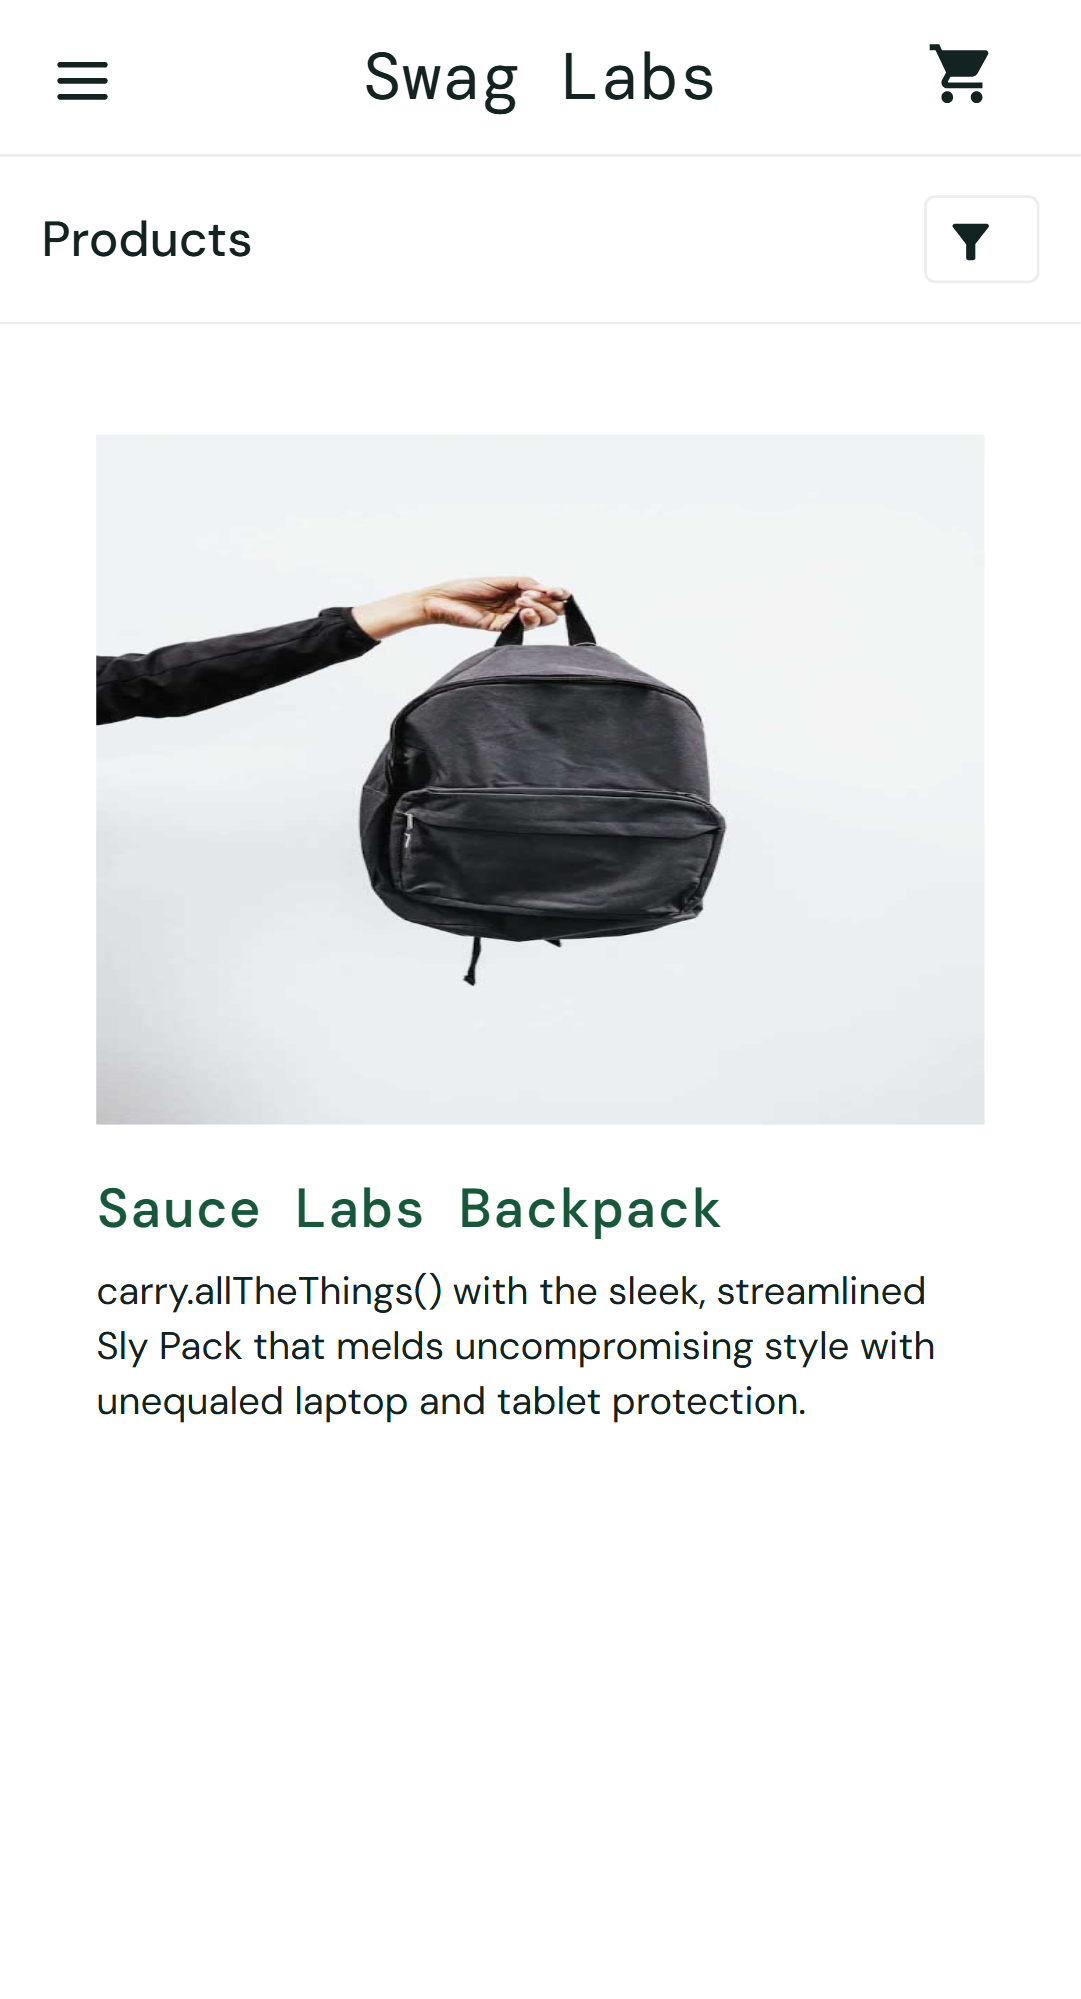
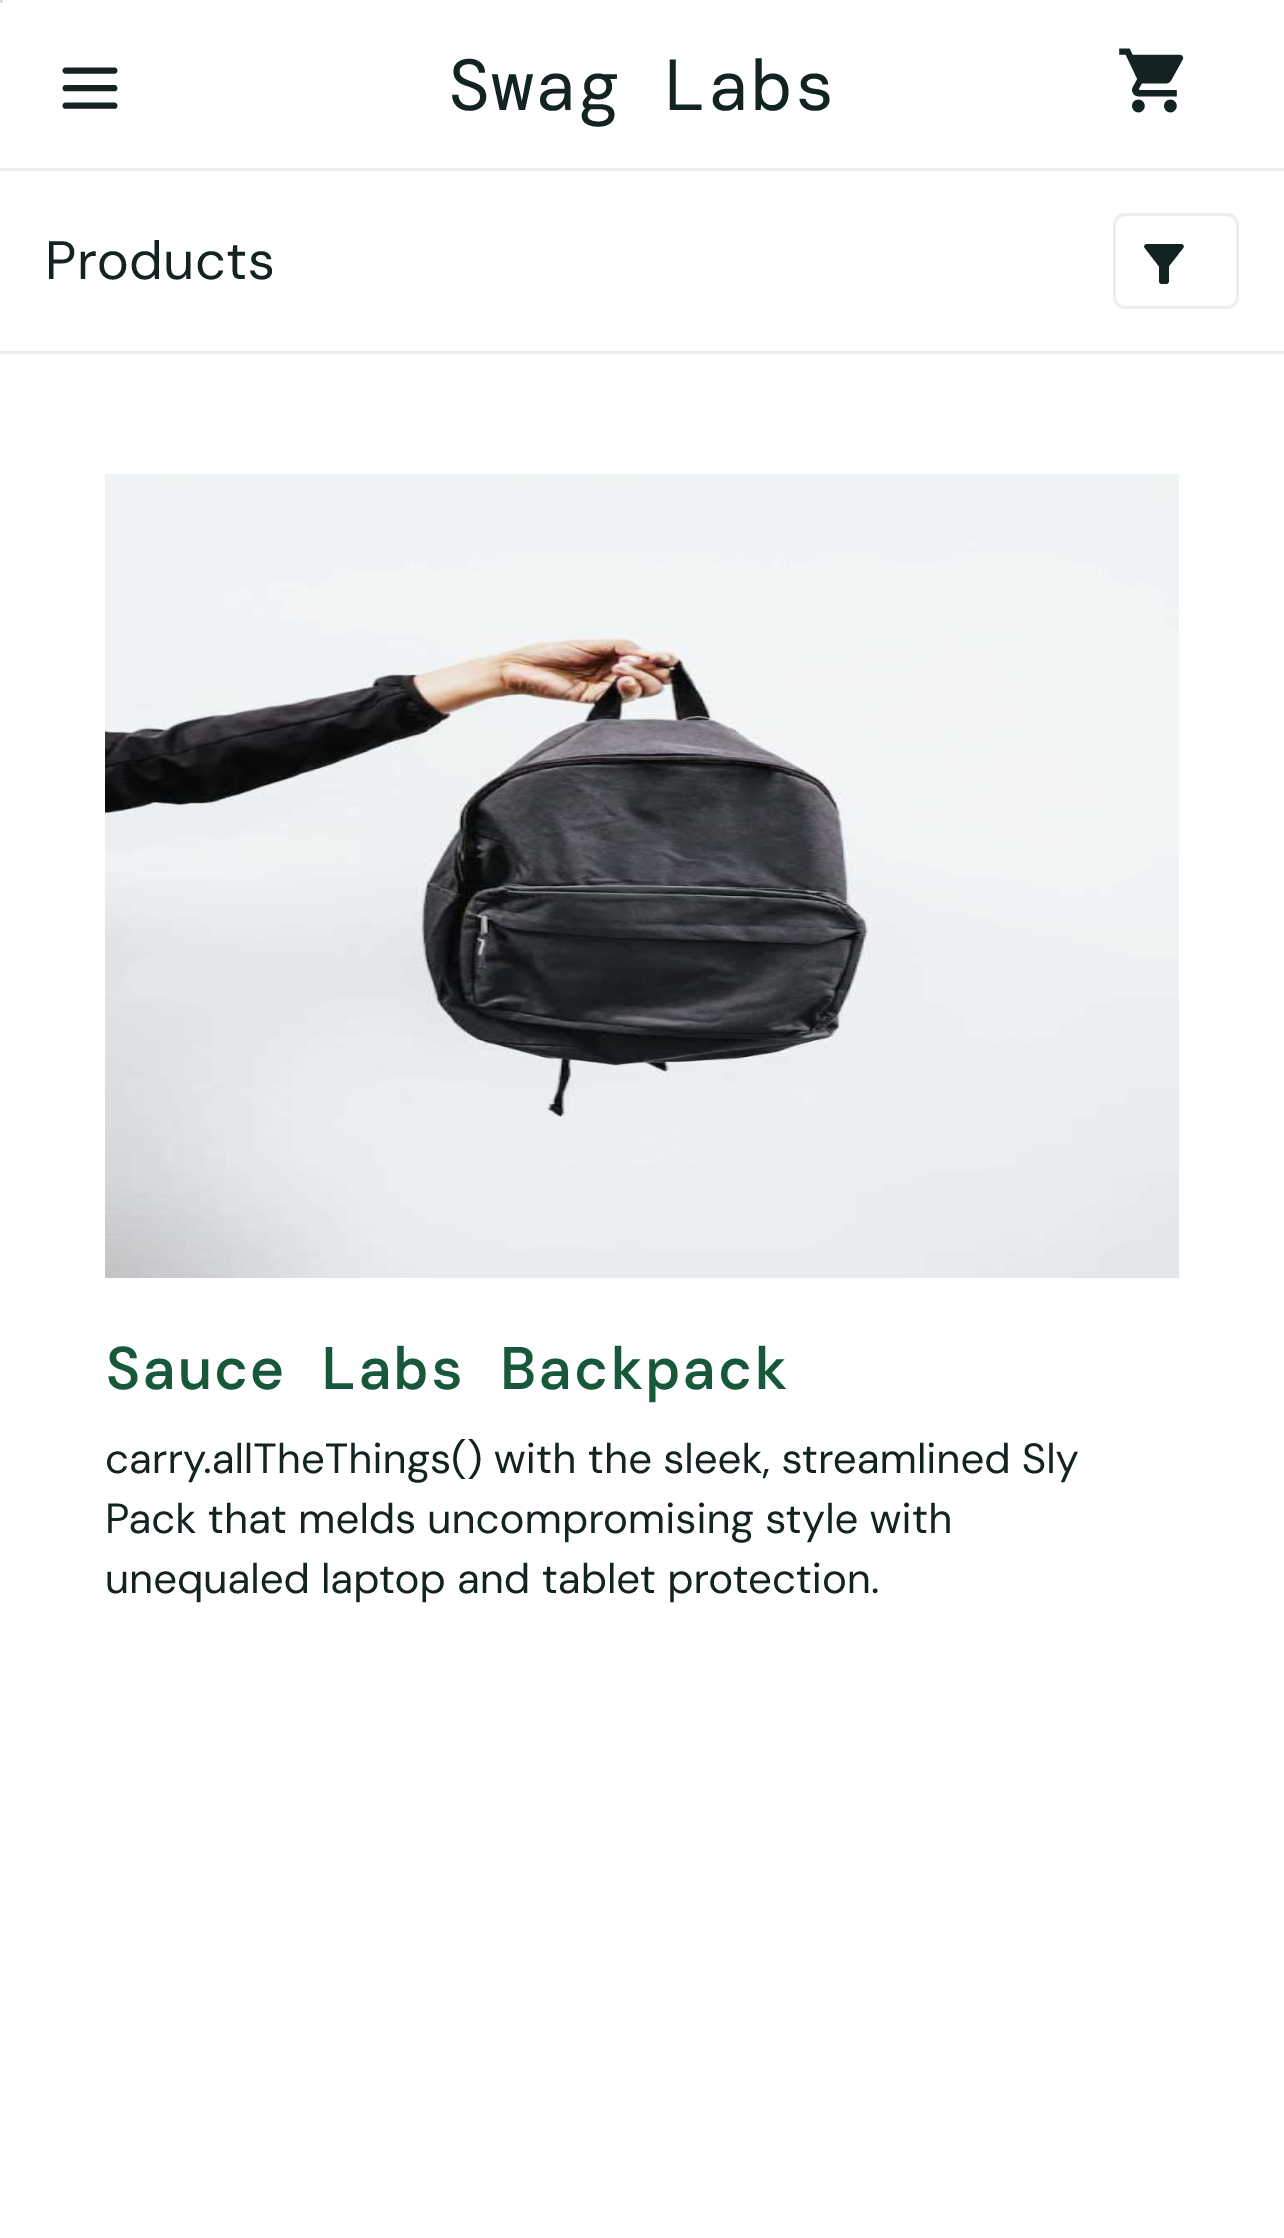
Added Iphone 13 test support

diff --git a/playwright.config.ts b/playwright.config.ts
@@ -63,10 +63,10 @@ export default defineConfig({
       name: 'Mobile Chrome',
       use: { ...devices['Pixel 5'] },
     },
-    // {
-    //   name: 'Mobile Safari',
-    //   use: { ...devices['iPhone 12'] },
-    // },
+    {
+      name: 'iPhone',
+      use: { ...devices['iPhone 13 Pro Max'] },
+    },
 
     /* Test against branded browsers. */
     // {

diff --git a/allure-results/6144d20f-ba00-45cb-9098-a4ff45805298-attachment.md b/allure-results/6144d20f-ba00-45cb-9098-a4ff45805298-attachment.md
@@ -1,0 +1,88 @@
+# Instructions
+
+- Following Playwright test failed.
+- Explain why, be concise, respect Playwright best practices.
+- Provide a snippet of code with the fix, if possible.
+
+# Test info
+
+- Name: visual.spec.ts >> Visual testing >> Visual test - login page
+- Location: tests\visual.spec.ts:10:9
+
+# Error details
+
+```
+Error: expect(page).toHaveScreenshot(expected) failed
+
+  Expected an image 1280px by 720px, received 428px by 746px. 267854 pixels (ratio 0.29 of all image pixels) are different.
+
+Call log:
+  - Expect "toHaveScreenshot" with timeout 5000ms
+    - verifying given screenshot expectation
+  - taking page screenshot
+    - disabled all CSS animations
+  - waiting for fonts to load...
+  - fonts loaded
+  - Expected an image 1280px by 720px, received 428px by 746px. 267854 pixels (ratio 0.29 of all image pixels) are different.
+  - waiting 100ms before taking screenshot
+  - taking page screenshot
+    - disabled all CSS animations
+  - waiting for fonts to load...
+  - fonts loaded
+  - captured a stable screenshot
+  - Expected an image 1280px by 720px, received 428px by 746px. 267854 pixels (ratio 0.29 of all image pixels) are different.
+
+```
+
+# Page snapshot
+
+```yaml
+- generic [ref=e3]:
+  - generic [ref=e4]: Swag Labs
+  - generic [ref=e5]:
+    - generic [ref=e9]:
+      - textbox "Username" [ref=e11]
+      - textbox "Password" [ref=e13]
+      - button "Login" [ref=e15] [cursor=pointer]
+    - generic [ref=e17]:
+      - generic [ref=e18]:
+        - heading "Accepted usernames are:" [level=4] [ref=e19]
+        - text: standard_user
+        - text: locked_out_user
+        - text: problem_user
+        - text: performance_glitch_user
+        - text: error_user
+        - text: visual_user
+      - generic [ref=e20]:
+        - heading "Password for all users:" [level=4] [ref=e21]
+        - text: secret_sauce
+```
+
+# Test source
+
+```ts
+  1  | import test, { expect } from '../fixtures/basePages';
+  2  | 
+  3  | 
+  4  | test.describe('Visual testing', () => {     
+  5  | 
+  6  |     test.beforeEach(async ({loginPage }) => {
+  7  |         await loginPage.gotoLoginPage();
+  8  |     });
+  9  | 
+  10 |     test('Visual test - login page', async ({ page }) => {
+> 11 |         await expect(page).toHaveScreenshot();
+     |                            ^ Error: expect(page).toHaveScreenshot(expected) failed
+  12 |     });
+  13 | 
+  14 | 
+  15 | })
+  16 | 
+  17 | 
+  18 | 
+  19 | 
+  20 | 
+  21 | 
+  22 | 
+  23 | 
+```

diff --git a/allure-results/e0f30ae6-04a4-413e-b781-29bcfeb1a134-attachment.md b/allure-results/e0f30ae6-04a4-413e-b781-29bcfeb1a134-attachment.md
@@ -1,0 +1,69 @@
+# Instructions
+
+- Following Playwright test failed.
+- Explain why, be concise, respect Playwright best practices.
+- Provide a snippet of code with the fix, if possible.
+
+# Test info
+
+- Name: visual.spec.ts >> Visual testing >> Visual test - login page
+- Location: tests\visual.spec.ts:10:9
+
+# Error details
+
+```
+Error: A snapshot doesn't exist at C:\Users\lukyk\playwright_saucedemo\tests\visual.spec.ts-snapshots\Visual-testing-Visual-test---login-page-1-iPhone-win32.png, writing actual.
+```
+
+# Page snapshot
+
+```yaml
+- generic [ref=e3]:
+  - generic [ref=e4]: Swag Labs
+  - generic [ref=e5]:
+    - generic [ref=e9]:
+      - textbox "Username" [ref=e11]
+      - textbox "Password" [ref=e13]
+      - button "Login" [ref=e15] [cursor=pointer]
+    - generic [ref=e17]:
+      - generic [ref=e18]:
+        - heading "Accepted usernames are:" [level=4] [ref=e19]
+        - text: standard_user
+        - text: locked_out_user
+        - text: problem_user
+        - text: performance_glitch_user
+        - text: error_user
+        - text: visual_user
+      - generic [ref=e20]:
+        - heading "Password for all users:" [level=4] [ref=e21]
+        - text: secret_sauce
+```
+
+# Test source
+
+```ts
+  1  | import test, { expect } from '../fixtures/basePages';
+  2  | 
+  3  | 
+  4  | test.describe('Visual testing', () => {     
+  5  | 
+  6  |     test.beforeEach(async ({loginPage }) => {
+  7  |         await loginPage.gotoLoginPage();
+  8  |     });
+  9  | 
+  10 |     test('Visual test - login page', async ({ page }) => {
+> 11 |         await expect(page).toHaveScreenshot();
+     |         ^ Error: A snapshot doesn't exist at C:\Users\lukyk\playwright_saucedemo\tests\visual.spec.ts-snapshots\Visual-testing-Visual-test---login-page-1-iPhone-win32.png, writing actual.
+  12 |     });
+  13 | 
+  14 | 
+  15 | })
+  16 | 
+  17 | 
+  18 | 
+  19 | 
+  20 | 
+  21 | 
+  22 | 
+  23 | 
+```